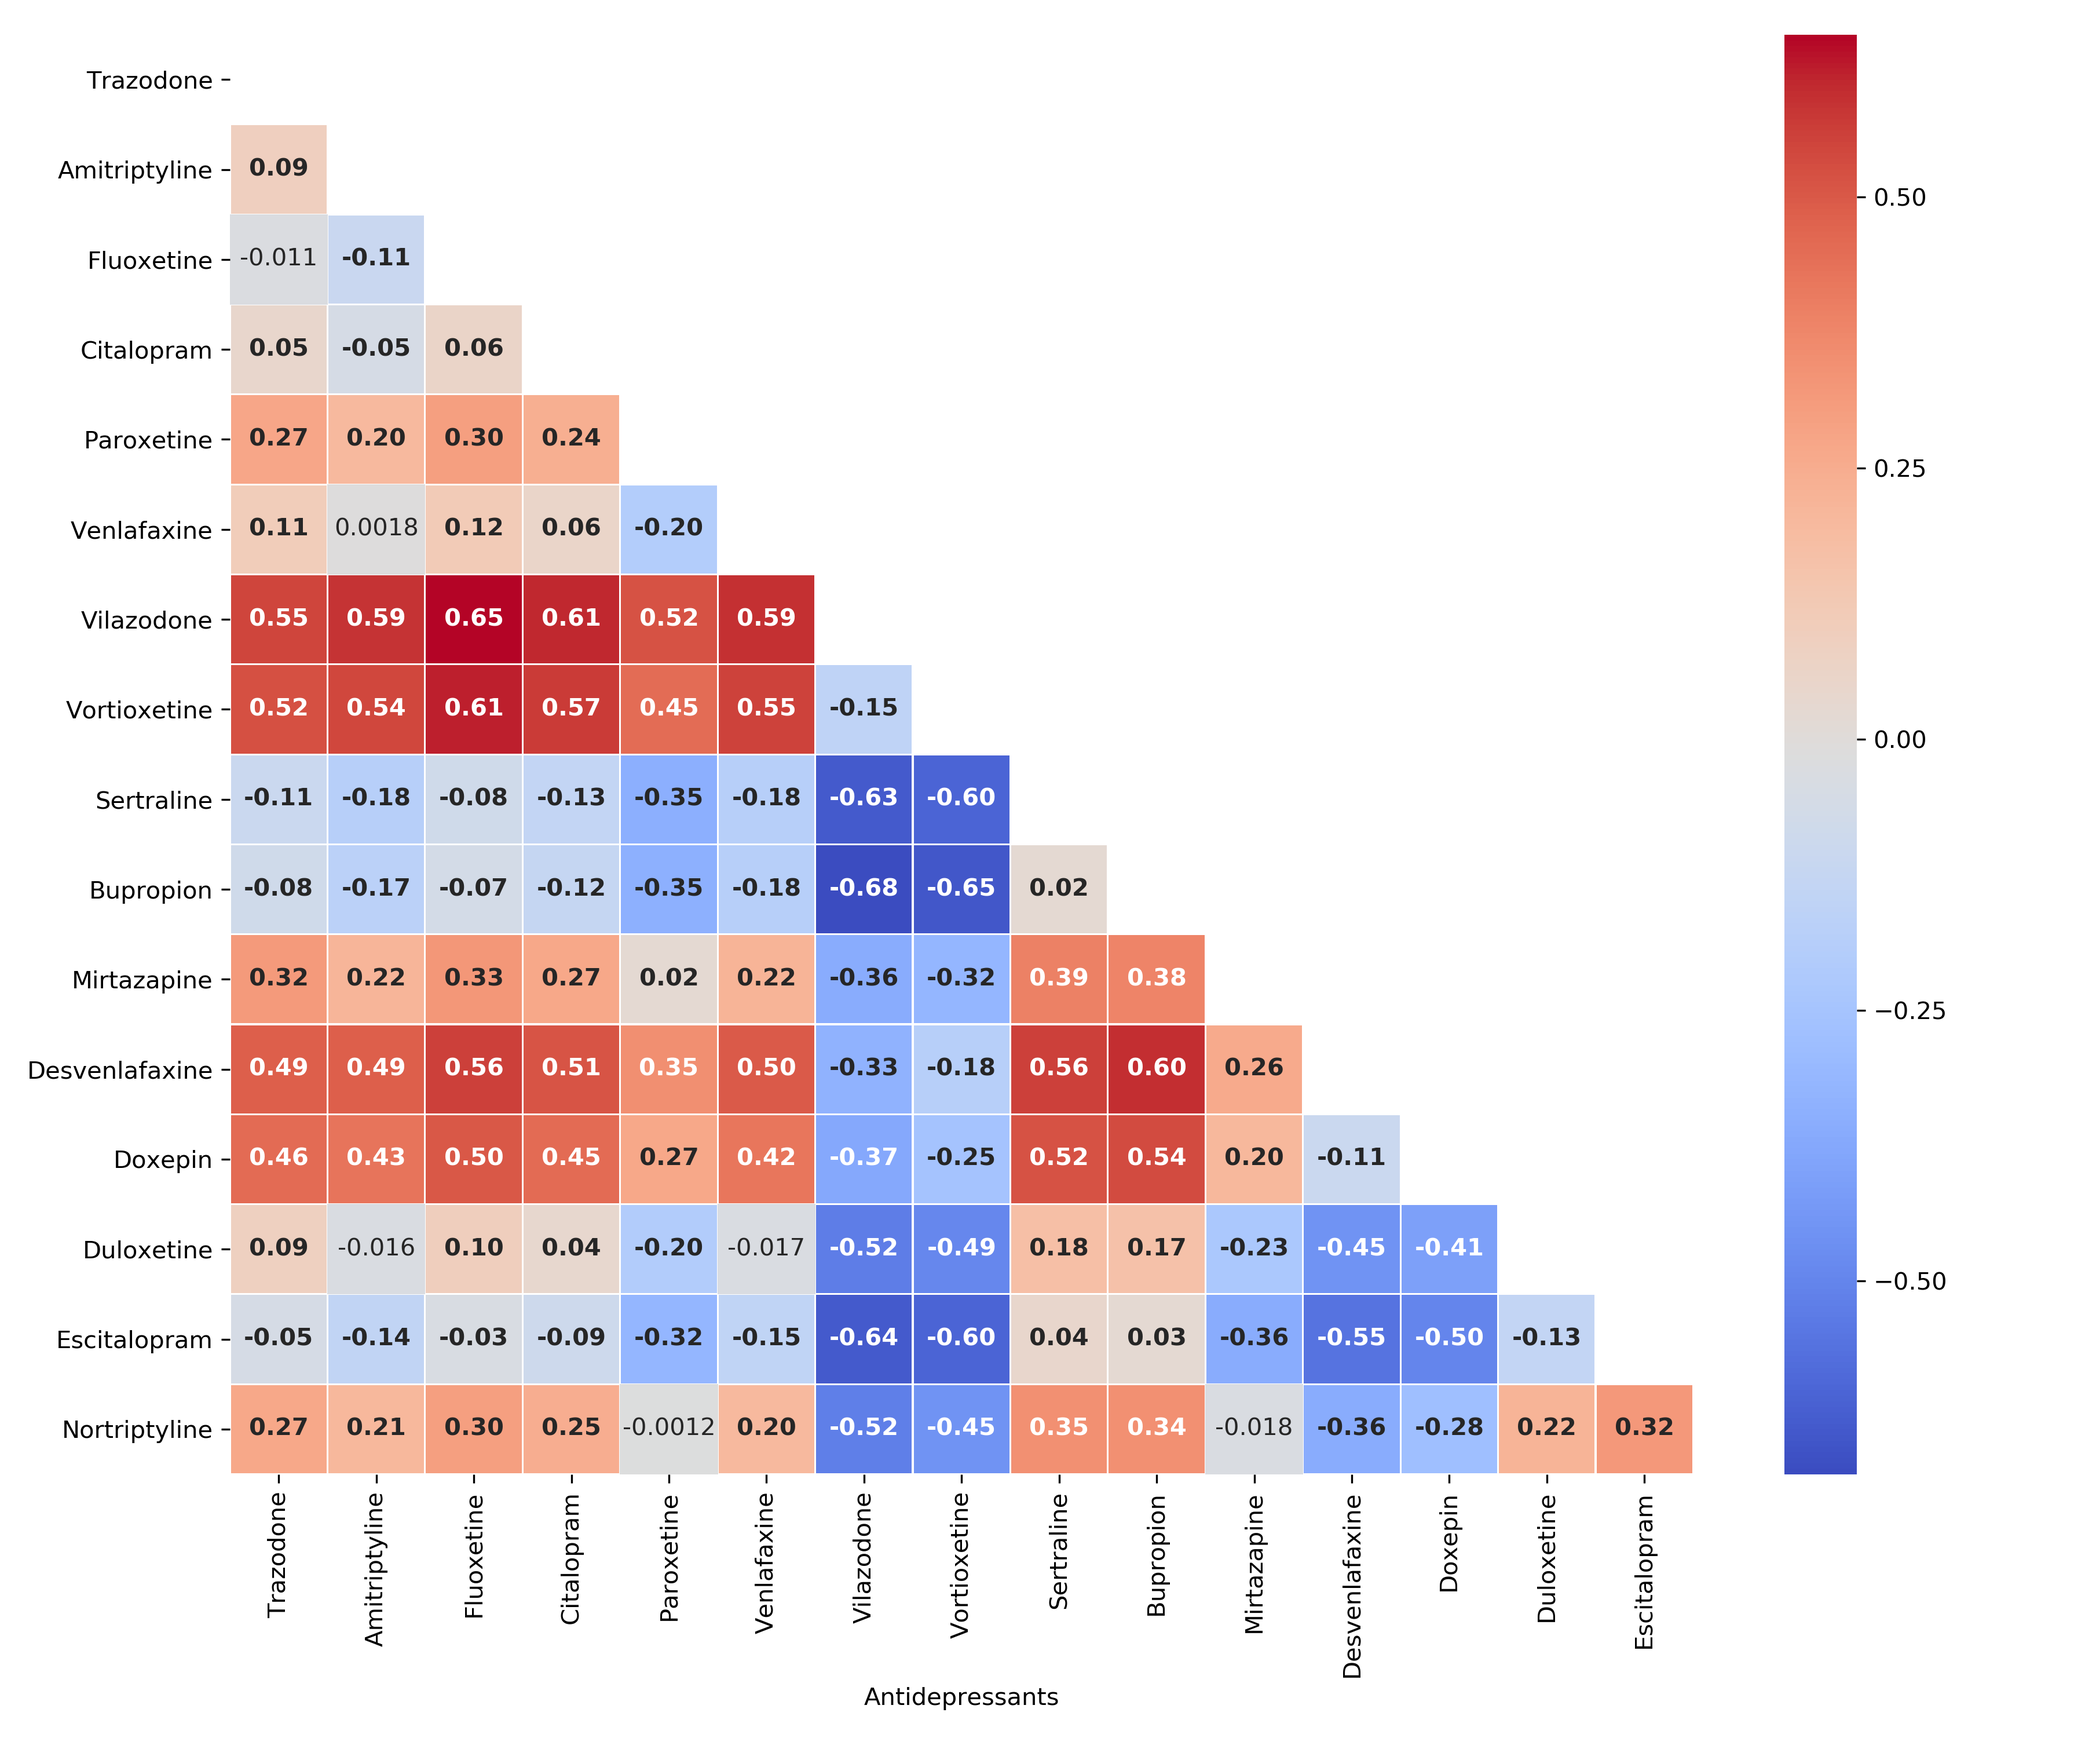
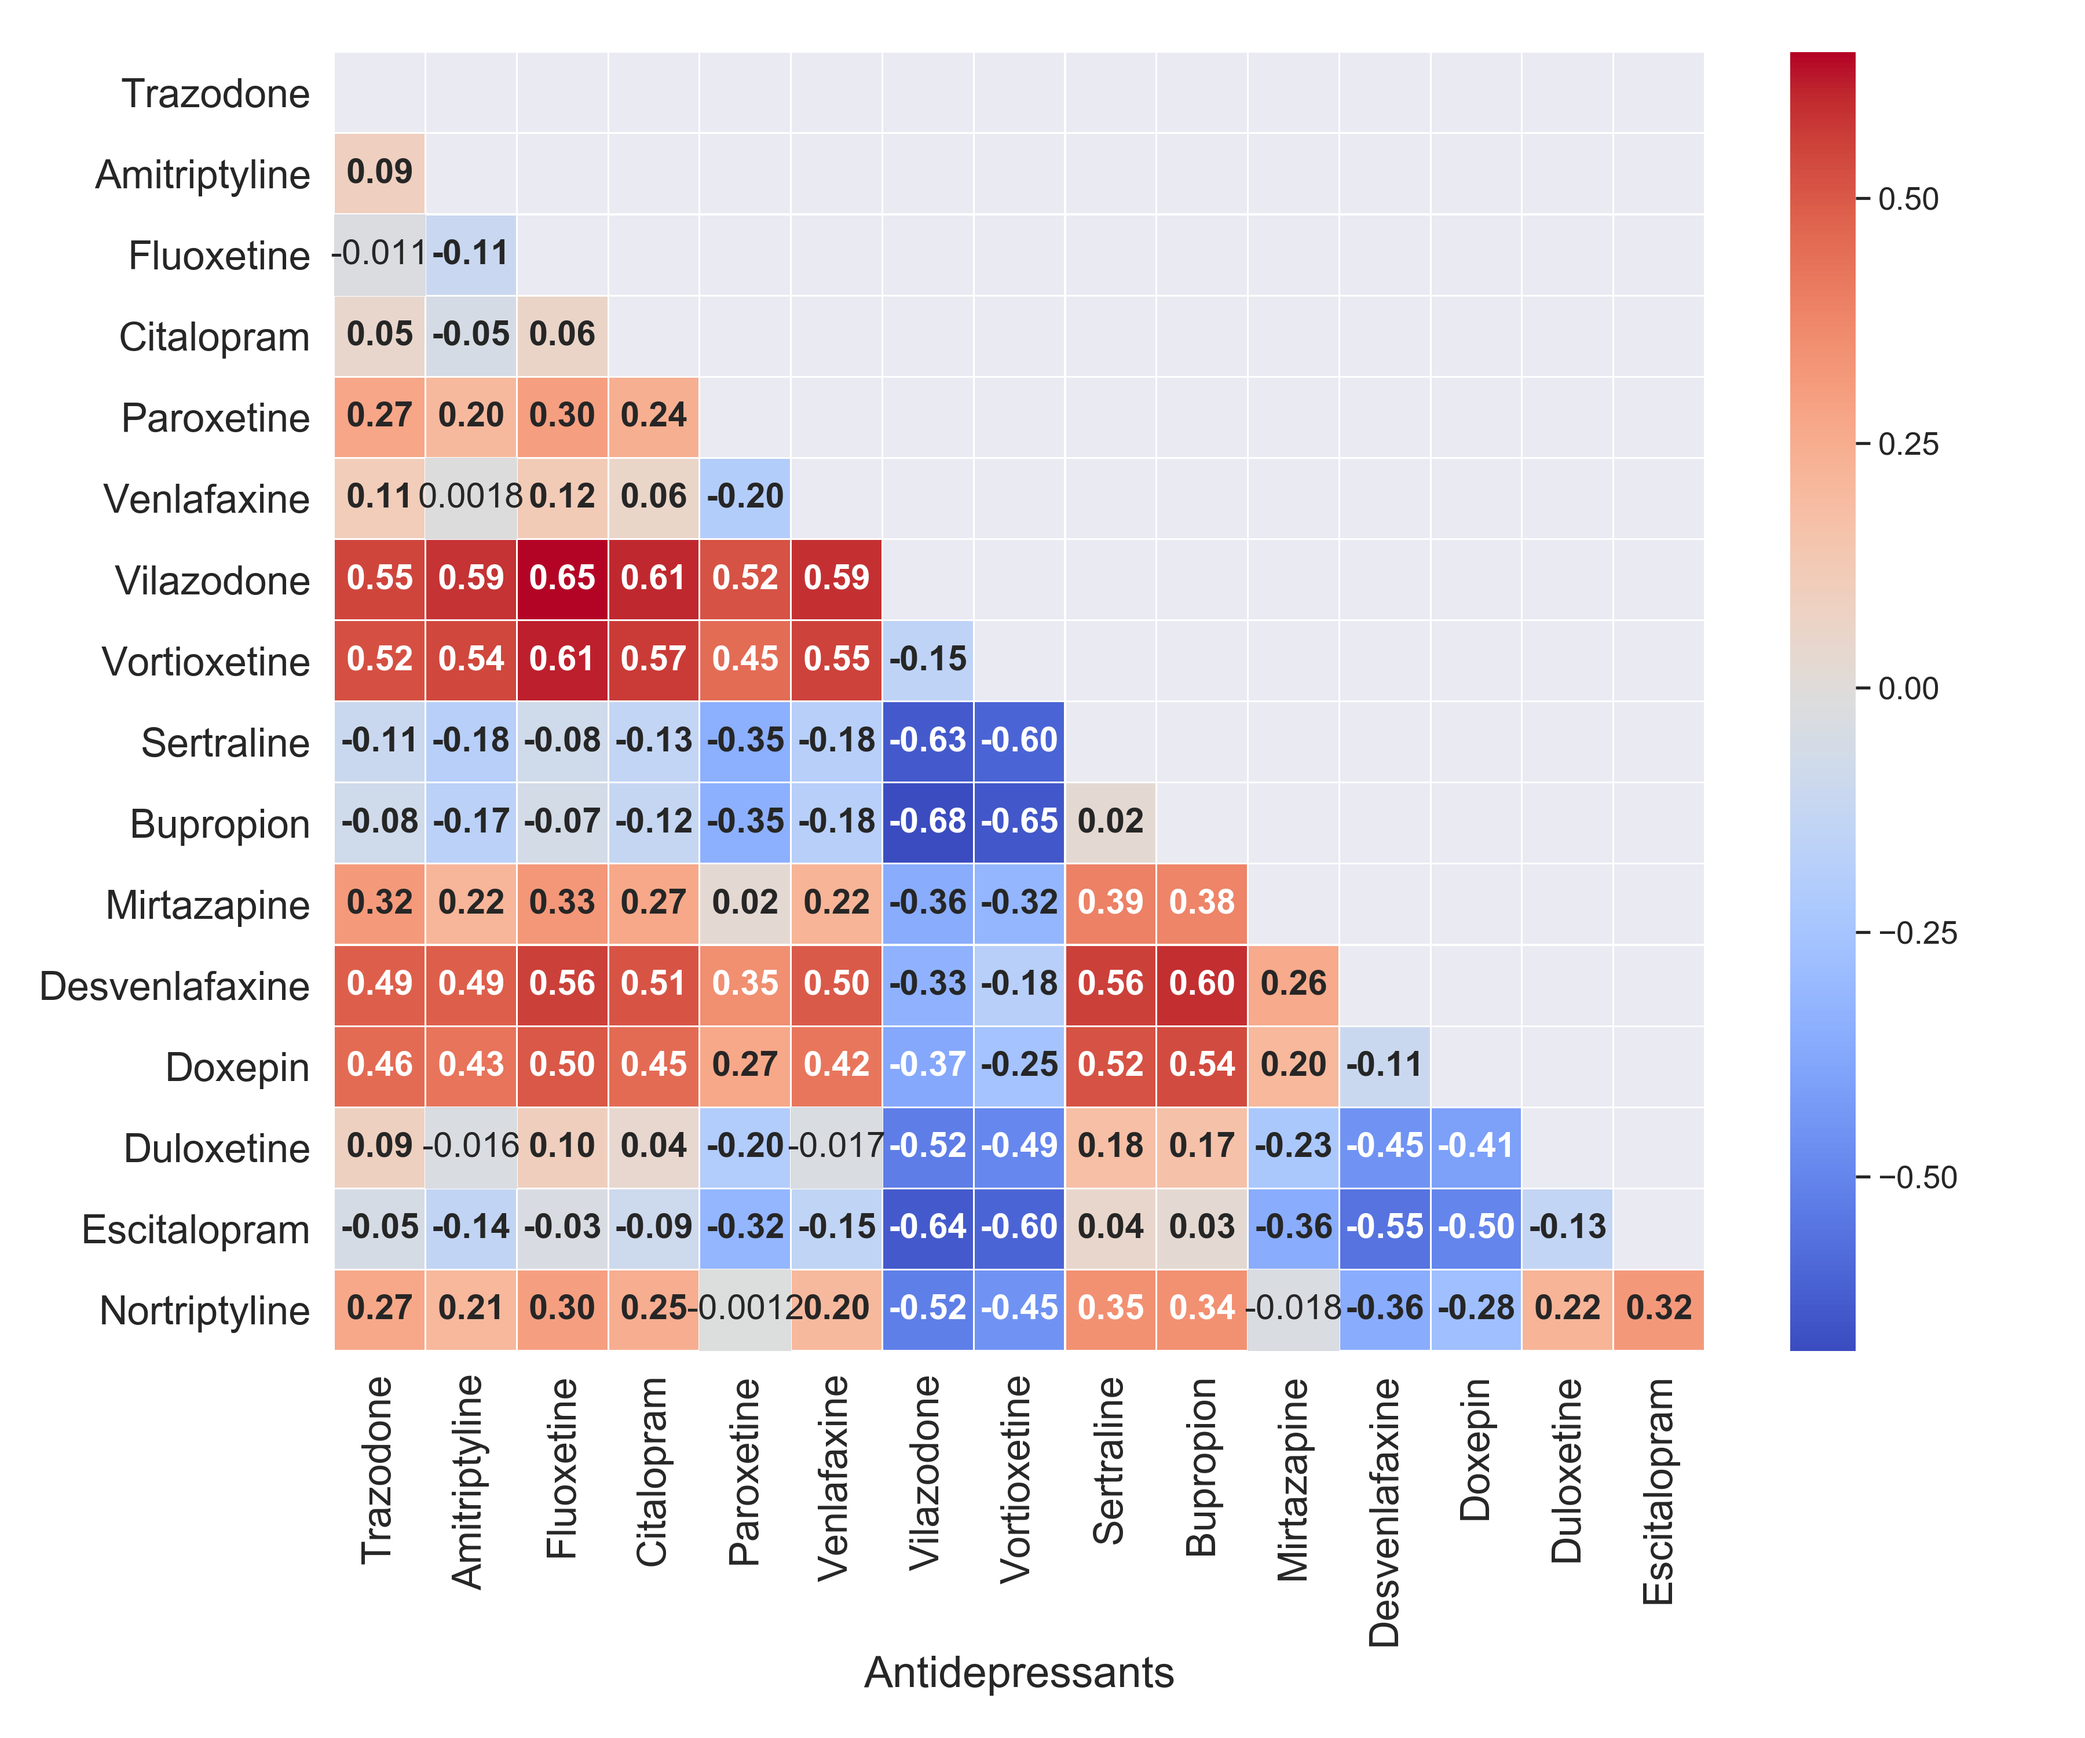
__

diff --git a/data_prep.py b/data_prep.py
@@ -24,18 +24,20 @@ ate_pair_L = pd.read_csv('ate_prop_score_pair_ci_L.csv')
 ate_pair_U = pd.read_csv('ate_prop_score_pair_ci_U.csv')
 
 first_ad = ate_pair_mean.columns[2:]
-first_ad[14]
+
 fig, axes = plt.subplots(15,1, figsize = (8,20), sharex=True)
+# sns.set(font_scale=0.8)
+# sns.set_context("paper", rc={"font.size":15,"axes.titlesize":13,"axes.labelsize":12})
 for i in range(15):
     ate_pair_mean['ci'] = ate_pair_U[first_ad[14-i]] - ate_pair_L[first_ad[14-i]]
     sns.barplot(ax=axes[i],data=ate_pair_mean, x='Antidepressants', y=first_ad[14-i], color='blue', alpha = 0.4)
-    axes[i].errorbar(data=ate_pair_mean, x='Antidepressants', y=first_ad[14-i], yerr='ci',ls='', color='black' )
-    axes[i].tick_params(axis='x', labelrotation = 45)
-
-fig.savefig('pairwise_ate.png')
+    axes[i].errorbar(data=ate_pair_mean, x='Antidepressants', y=first_ad[14-i], yerr='ci',ls='', color='black')
+    axes[i].tick_params(axis='x', labelrotation = 45, labelsize=12)
+# sns.set_context("paper", rc={"font.size":8,"axes.titlesize":8,"axes.labelsize":5}) 
+fig.savefig('pairwise_ate.png', dpi=300)
 plt.show()
 
-ate_pair_L
+
 
 ate_pair_L.set_index('Antidepressants', inplace=True)
 ate_pair_U.set_index('Antidepressants', inplace=True)
@@ -45,10 +47,12 @@ mask_nsig = ate_pair_mult <= 0
 
 ate_pair_mean.set_index('Antidepressants', inplace=True)
 #HeatMap
-# ate_pair_mean.drop(columns=['ci'], inplace=True)
+ate_pair_mean.drop(columns=['ci'], inplace=True)
+
 f, ax = plt.subplots(figsize=(12, 10))
 ate_pair_mean.T
 ate_pair_mult
+sns.set(font_scale=1.2)
 sns.heatmap(ate_pair_mean.T, annot=True, fmt=".2f", linewidths=.5, ax=ax,cmap='coolwarm', mask=mask_nsig, annot_kws={"weight": "bold"})
 sns.heatmap(ate_pair_mean.T, mask=mask_sig, cbar=False, annot=True, ax=ax, cmap='coolwarm',vmax=0.65, vmin=-0.65)
 
@@ -81,7 +85,7 @@ for i, n in enumerate(neg_cntls):
     sns.barplot(ax=axes[i],data=ate_neg_ctl_mean, x='Antidepressants', y=n, color='blue', alpha = 0.4)
     axes[i].axhline(0)
     axes[i].errorbar(data=ate_neg_ctl_mean, x='Antidepressants', y=n, yerr='ci',ls='', color='black' )
-    axes[i].tick_params(axis='x', labelrotation = 45)
+    axes[i].tick_params(axis='x', labelrotation = 55)
 
 plt.tight_layout()
 fig.savefig('neg_cntl.png', dpi=300)
